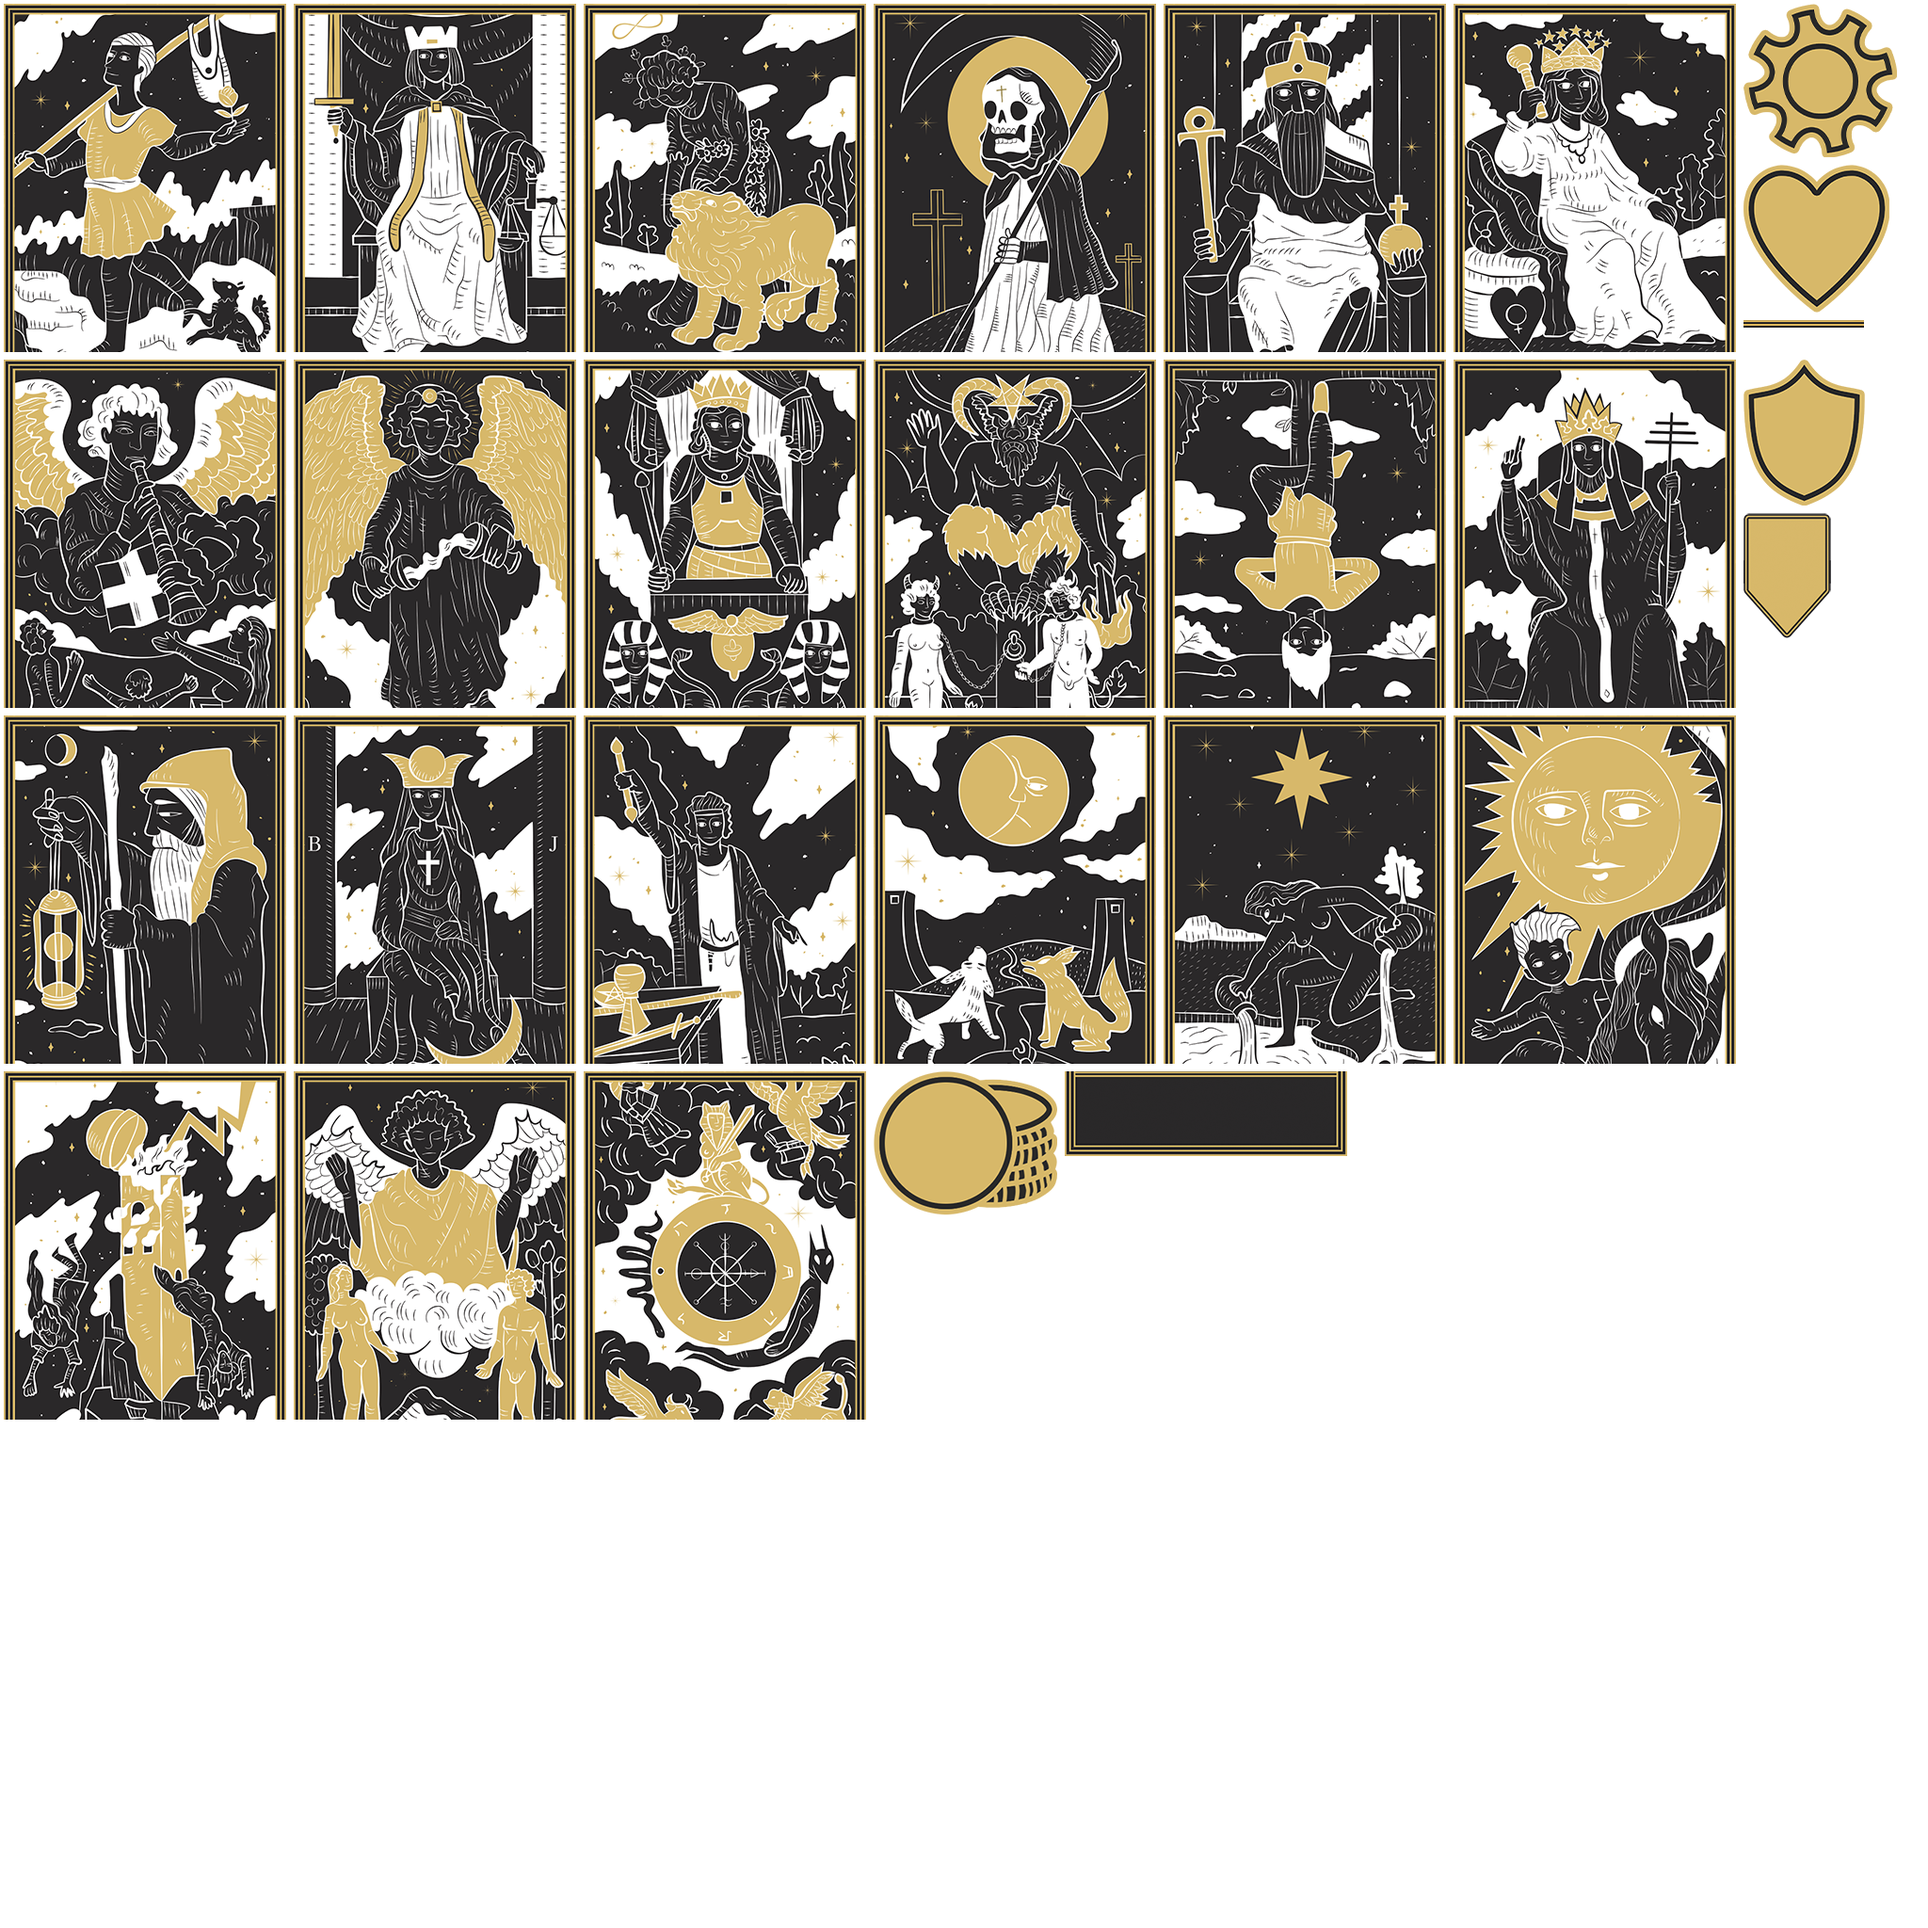
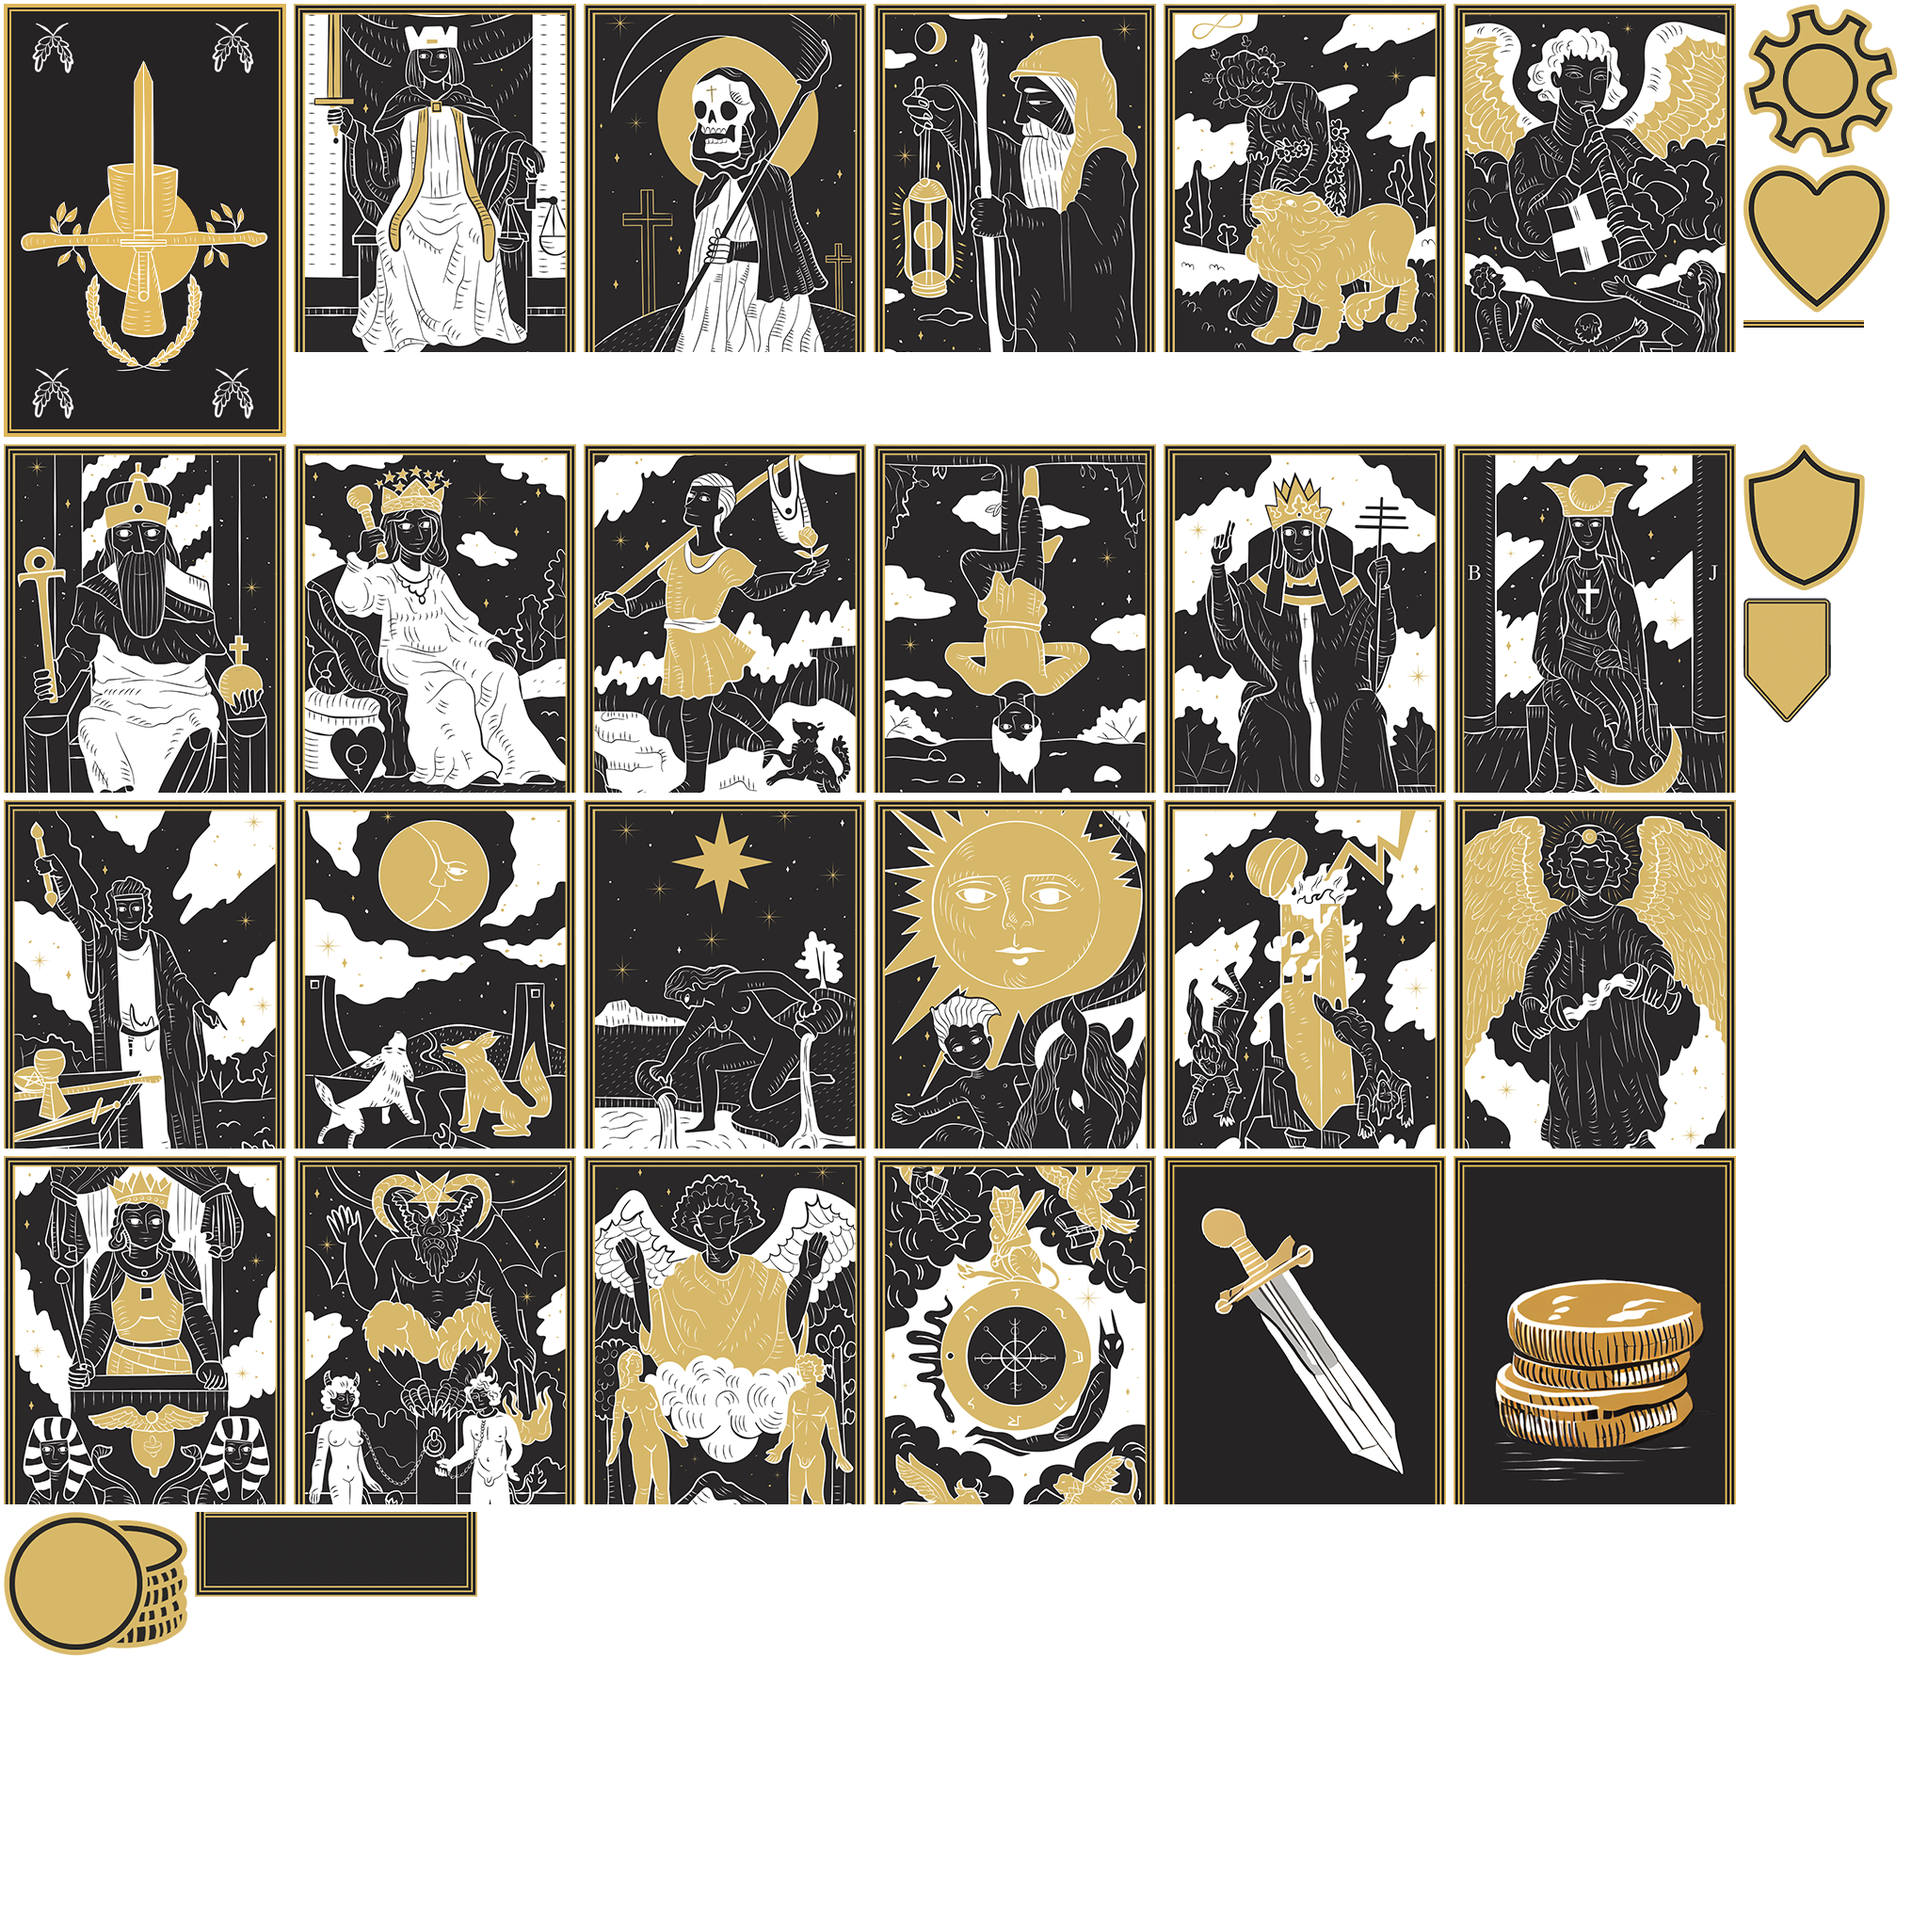
Updated game

diff --git a/Prototypes/Forward/js/EnemyGrid.js b/Prototypes/Forward/js/EnemyGrid.js
@@ -33,7 +33,7 @@ export default class EnemyGrid {
             halfStage.h + (cardHeight + cardPadding),
         ];
         // Adjust to go off screen
-        const yOFfset = cardHeight + cardPadding * 2 + (cardHeight + cardPadding) * 0.2;
+        const yOFfset = cardHeight + cardPadding * 4;
         yCoords[0] -= yOFfset;
         yCoords[1] -= yOFfset;
         yCoords[2] -= yOFfset;
@@ -58,6 +58,14 @@ export default class EnemyGrid {
             monsters[i].ReplaceWithRandom(monsters);
         }
 
+        this.cardBacks = [
+            scene.add.sprite(0, 0, scene.GetSet("CardBack.png"), "CardBack.png"),
+            scene.add.sprite(0, 0, scene.GetSet("CardBack.png"), "CardBack.png"),
+            scene.add.sprite(0, 0, scene.GetSet("CardBack.png"), "CardBack.png")
+        ];
+        this.SetCardBackVisibility(false);
+        
+
         this.xCoords = xCoords;
         this.yCoords = yCoords;
         this.monsters = monsters;
@@ -69,6 +77,30 @@ export default class EnemyGrid {
         this.cardPadding = cardPadding;
         this.scene = scene;
         this.yOffset = yOFfset;
+    }
+
+    SetCardBackVisibility(newVal) {
+        this.cardBacks[0].setActive(newVal).setVisible(newVal);
+        this.cardBacks[1].setActive(newVal).setVisible(newVal);
+        this.cardBacks[2].setActive(newVal).setVisible(newVal);
+    }
+
+    PositionCardBacksAtRow0() {
+        this.cardBacks[0].x = this.xCoords[0];
+        this.cardBacks[1].x = this.xCoords[1];
+        this.cardBacks[2].x = this.xCoords[2];
+
+        this.cardBacks[0].y = this.yCoords[0] - this.cardHeight - this.cardPadding;
+        this.cardBacks[1].y = this.yCoords[0] - this.cardHeight - this.cardPadding;
+        this.cardBacks[2].y = this.yCoords[0] - this.cardHeight - this.cardPadding;
+
+        this.cardBacks[0].scaleX = 1;
+        this.cardBacks[1].scaleX = 1;
+        this.cardBacks[2].scaleX = 1;
+
+        this.cardBacks[0].angle = CardBase.GetRandomRotation();
+        this.cardBacks[1].angle = CardBase.GetRandomRotation();
+        this.cardBacks[2].angle = CardBase.GetRandomRotation();
     }
 
     get HighlightActive() {
@@ -145,8 +177,6 @@ export default class EnemyGrid {
         }
     }
 
-   
-
     TryToMove(gameObject, x, y) {
         const targetIndex = this._GetTargetIndex(x, y);
         
@@ -170,9 +200,17 @@ export default class EnemyGrid {
             });
 
             setTimeout(() => {
+                this.SetCardBackVisibility(true);
+                this.PositionCardBacksAtRow0();
+
                 const row1 = [this.monsters[0], this.monsters[3], this.monsters[6]];
                 const row2 = [this.monsters[1], this.monsters[4], this.monsters[7]];
                 const row3 = [this.monsters[2], this.monsters[5], this.monsters[8]];
+                this.scene.tweens.add( {
+                    targets: this.cardBacks,
+                    duration: 400,
+                    y: this.yCoords[0],
+                });
                 this.scene.tweens.add( {
                     targets: row1,
                     duration: 400,
@@ -203,9 +241,25 @@ export default class EnemyGrid {
                             row1[i].ReplaceWithRandom(this.monsters);
 
                             row3[i].alpha = 1;
-
-                            this.scene.player.setInteractive();
+                            row1[i].scaleX = 0;
                         }
+
+
+                        this.scene.tweens.add( {
+                            targets: this.cardBacks,
+                            duration: 300,
+                            scaleX: 0,
+                            onComplete: () => {
+                                this.scene.tweens.add( {
+                                    targets: row1,
+                                    duration: 300,
+                                    scaleX: 1,
+                                    onComplete: () => {
+                                        this.scene.player.setInteractive();
+                                    }
+                                });
+                            }
+                        });
                     } 
                 });
             }, 100);

diff --git a/Prototypes/Forward/js/CardBase.js b/Prototypes/Forward/js/CardBase.js
@@ -4,14 +4,11 @@ export default class CardBase extends Phaser.GameObjects.Container {
     constructor(data) {
         const { scene, x, y, name, sprite, depth, value, type} = data;
 
-        let set = 'set1';
-        if (!scene.set1.includes(sprite)) {
-            set = 'set2';
-        }
+        const faceSprite = scene.add.sprite(0, 0, scene.GetSet(sprite), sprite);
+        faceSprite.y -= (scene.cardHeight - faceSprite.height) / 2;
 
-        const faceSprite = scene.add.sprite(0, 0, set, sprite);
         const footerSprite = scene.add.sprite(0, 0, scene.GetSet("BottomFrame.png"), "BottomFrame.png");
-        footerSprite.y = faceSprite.height / 2 + footerSprite.height / 2;
+        footerSprite.y = (faceSprite.height / 2 + footerSprite.height / 2) - (scene.cardHeight - faceSprite.height) / 2;
 
         const nameText = new Phaser.GameObjects.BitmapText(scene, 0,0, scene.cardNameFont, name, scene.cardNameFontSize, Phaser.GameObjects.BitmapText.ALIGN_CENTER);
         
@@ -43,7 +40,9 @@ export default class CardBase extends Phaser.GameObjects.Container {
             this.valueText.x = this.valueSprite.x - this.valueText.width / 2;
         }
 
-        this.setSize( footerSprite.width,  footerSprite.height + faceSprite.height); 
+        this.setSize(footerSprite.width,  footerSprite.height + faceSprite.height); 
+        //console.log("size: " + (footerSprite.height + faceSprite.height))
+        //this.setOrigin(0.5, 0.5);
         this.ApplyRandomRotation();
 
         this.scene.add.existing(this);
@@ -60,6 +59,22 @@ export default class CardBase extends Phaser.GameObjects.Container {
         if (CardBase.rotationCounter > 100) {
             CardBase.rotationCounter -= 100;
         }
+
+        //this.angle = 0;
+    }
+
+    static GetRandomRotation() {
+        const maxRotationDegrees = 3;
+        let result = Math.random() * maxRotationDegrees;
+        if (CardBase.rotationCounter++ % 2 == 0) {
+            result = -(Math.random() * maxRotationDegrees);
+        }
+       
+        if (CardBase.rotationCounter > 100) {
+            CardBase.rotationCounter -= 100;
+        }
+
+        return result;
     }
 
     ReplaceWithRandom(set) {

diff --git a/Prototypes/Forward/js/SceneDungeon.js b/Prototypes/Forward/js/SceneDungeon.js
@@ -18,7 +18,6 @@ export default class SceneDungeon extends Phaser.Scene {
         this.cardNameFontSize  = 56;
         this.cardValueFontSize  = 96;
         
-        this.scaleFactor = 1.0;
         this.set1 = [ "Death.png", "Justice.png", "Strength.png", "TheEmperor.png", "TheEmpress.png", "TheFool.png", "TheHangedMan.png", "TheHeriophant.png", "TheHermit.png", "TheHighPriestess.png", "TheMagician.png", "TheMoon.png", "TheStar.png", "TheSun.png", "TheTower.png", "Judgement.png", "Temperance.png", "TheChariot.png", "TheDevil.png", "TheLovers.png", "TheWheelOfFortune.png" ];
         this.names1 = [ "Death", "Justice", "Strength", "The Emperor", "The Empress", "The Fool", "The HangedMan", "The Heriophant", "The Hermit", "The High Priestess", "The Magician", "The Moon", "The Star", "The Sun", "The Tower", "Judgement", "Temperance", "The Chariot", "The Devil", "The Lovers", "The Wheel Of Fortune" ];
    
@@ -45,9 +44,7 @@ export default class SceneDungeon extends Phaser.Scene {
 
         let grid = new EnemyGrid(this);
         
-        const playerYOffset = (cardHeight + cardPadding) * 0.2;
-        const playerY = numRows * cardHeight + cardPadding + 
-                        cardPadding * numRows - playerYOffset + 140;
+        const playerY = (numRows * cardHeight) + (numRows * cardHeight  / 2) - grid.yOffset + (cardPadding * numRows) + cardPadding;
 
         const player = new CardPlayer({
             scene: this, 
@@ -68,13 +65,13 @@ export default class SceneDungeon extends Phaser.Scene {
         this.player.OnDragStart = (pointer, gameObject) => {
             grid.HighlightActive = true;
             gameObject.x = pointer.x;
-            gameObject.y = pointer.y;
+            gameObject.y = pointer.y - this.cardHeight / 3;
         }
 
         this.player.OnDrag = (pointer, gameObject, dragX, dragY) => {
             grid.SetHighlightPosition(pointer.x, pointer.y);
             gameObject.x = pointer.x;
-            gameObject.y = pointer.y;
+            gameObject.y = pointer.y - this.cardHeight / 3;
         }
 
         this.player.OnDragEnd = (pointer, gameObject) => {
